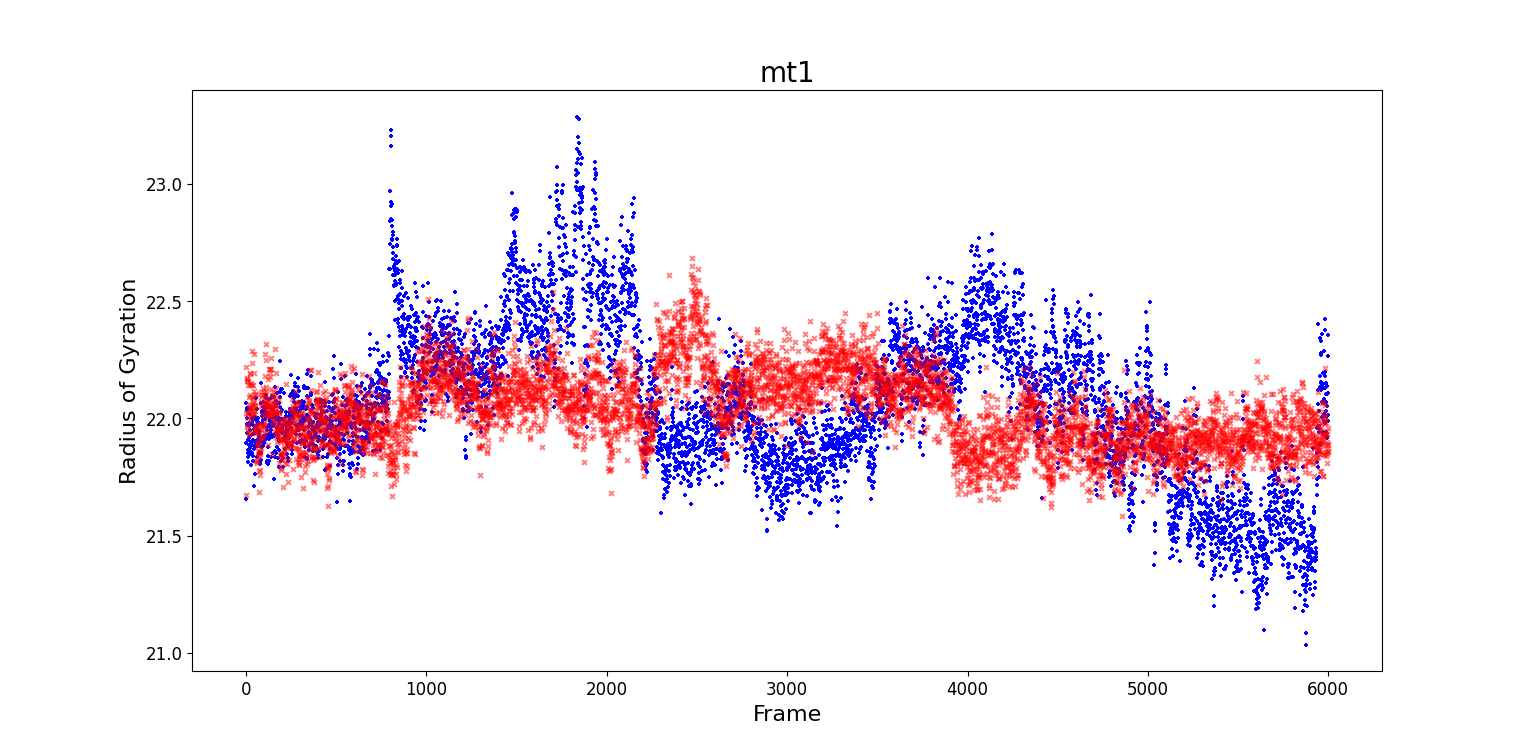
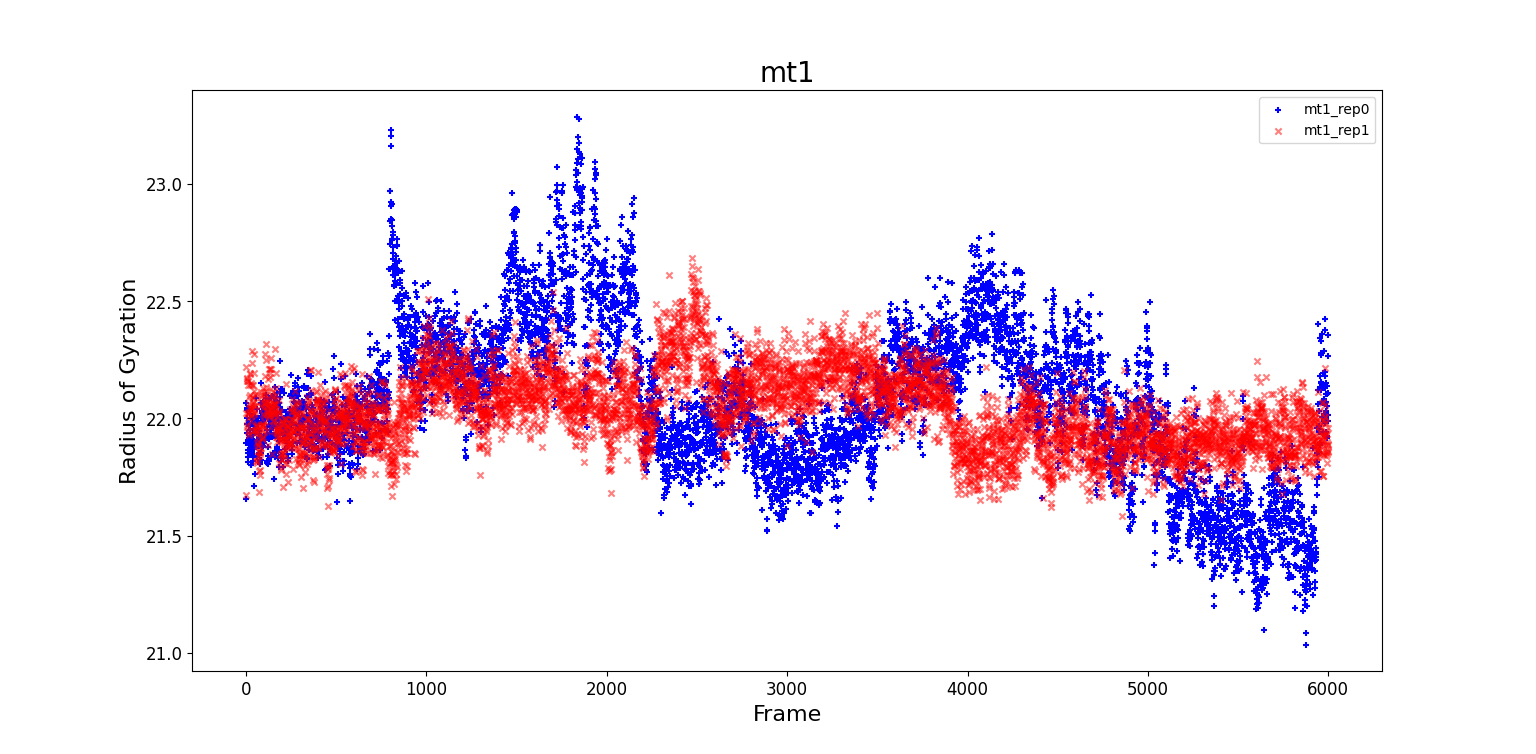
Added RMSF comparisons; added legend to previous plots

Changed region(s): [[0.1562, 0.3355, 0.875, 0.7626], [0.8438, 0.122, 0.9062, 0.183]]

diff --git a/src_analysis/RMSF_visualize.py b/src_analysis/RMSF_visualize.py
@@ -1,43 +1,34 @@
 from parameters import *
 import matplotlib.pyplot as plt
 
-def vis_rmsf(rmsf_dir):
-    rmsf = np.load(rmsf_dir)
-
-    plt.figure()
-
-    plt.plot(rmsf)
-    plt.xlabel("atoms")
-    plt.ylabel("RMSF")
-    plt.show()
-    print(f"Max rmsf for run {run} is {np.argmax(rmsf)}")
-
-def vis_2rmsf(rmsf0, rmsf1, title = ''):
+# //////////////////////////////////////////////////////////////////////////////
+def vis_2rmsf(rmsf0, rmsf1, title = '', label0 = '', label1 = ''):
     print(f">>> Plotting RMSF for '{title}'...")
 
-    frames = np.arange(rmsf0.size)
+    frames = np.arange(max(rmsf0.size, rmsf1.size))
     fig, ax = plt.subplots()
 
+    # ax.set_facecolor((0, 0, 0))
     ax.set_title(title, fontdict = dict(fontsize = 20))
     ax.set_xlabel("CA atom", fontdict = dict(fontsize = 16))
     ax.set_ylabel("RMSF", fontdict = dict(fontsize = 16))
     ax.tick_params(labelsize = 12)
 
     if rmsf0.size != rmsf1.size:
-        return
+        rmsf_half, rmsf_full = sorted([rmsf0, rmsf1], key = lambda arr: arr.size)
+        label_half, label_full = (label0, label1) if rmsf0 is rmsf_half else (label1, label0)
 
-        # arrs = sorted([rmsf0, rmsf1], key=lambda arr:arr.size)
-        # arrs[0] = np.append(arrs[0],arrs[0])
-        # plt.plot(arrs[0])
+        ax.plot(frames, rmsf_full, color = BLUE, linestyle = ':', linewidth = 2, label = label_full)
+        ax.plot(frames[:rmsf_half.size], rmsf_half, color = HALF_RED, linestyle = '-', linewidth = 2, label = label_half)
+        ax.plot(frames[rmsf_half.size:], rmsf_half, color = HALF_GREEN, linestyle = '-', linewidth = 2, label = label_half)
 
     else:
-        ax.plot(frames, rmsf0, color = BLUE, linestyle = ':', linewidth = 2)
-        ax.plot(frames, rmsf1, color = HALF_RED, linestyle = '-', linewidth = 2)
+        ax.plot(frames, rmsf0, color = BLUE, linestyle = ':', linewidth = 2, label = label0)
+        ax.plot(frames, rmsf1, color = HALF_RED, linestyle = '-', linewidth = 2, label = label1)
 
-        # ax.scatter(frames, rmsf0, color = BLUE, marker = '+', s = 12)
-        # ax.scatter(frames, rmsf1, color = HALF_RED, marker = 'x', s = 12)
+    ax.legend()
 
-
+# //////////////////////////////////////////////////////////////////////////////
 if __name__ == "__main__":
     for run_preffix in RUN_PREFFIXES:
         run0 = run_preffix + "_rep0"
@@ -49,6 +40,23 @@ if __name__ == "__main__":
         rmsf0 = np.load(PATH_RMSF0)
         rmsf1 = np.load(PATH_RMSF1)
 
-        vis_2rmsf(rmsf0, rmsf1, title = run_preffix)
+        vis_2rmsf(rmsf0, rmsf1, run_preffix, run0, run1)
+
+    comparisons = [
+        ("mt2_rep0", "wt2_rep0"),
+        ("mt1_rep0", "mt2_rep0"),
+        ("wt1_rep0", "wt2_rep0"),
+    ]
+
+    for run0, run1 in comparisons:
+        PATH_RMSF0 = DIR_DA_GENERAL / f"{run0}-rmsf.npy"
+        PATH_RMSF1 = DIR_DA_GENERAL / f"{run1}-rmsf.npy"
+
+        rmsf0 = np.load(PATH_RMSF0)
+        rmsf1 = np.load(PATH_RMSF1)
+
+        vis_2rmsf(rmsf0, rmsf1, f"{run0} vs {run1}", run0, run1)
 
     plt.show()
+
+# //////////////////////////////////////////////////////////////////////////////

diff --git a/src_analysis/RGYR_visualize.py b/src_analysis/RGYR_visualize.py
@@ -1,7 +1,8 @@
 from parameters import *
 import matplotlib.pyplot as plt
 
-def vis_2rgyr(rgyr0, rgyr1, title = ''):
+# //////////////////////////////////////////////////////////////////////////////
+def vis_2rgyr(rgyr0, rgyr1, title = '', label0 = '', label1 = ''):
     print(f">>> Plotting RGYR for '{title}'...")
 
     frames = np.arange(rgyr0.size)
@@ -12,29 +13,12 @@ def vis_2rgyr(rgyr0, rgyr1, title = ''):
     ax.set_ylabel("Radius of Gyration", fontdict = dict(fontsize = 16))
     ax.tick_params(labelsize = 12)
 
-    ax.scatter(frames, rgyr0, color = BLUE, marker = '+', s = 12)
-    ax.scatter(frames, rgyr1, color = HALF_RED, marker = 'x', s = 12)
+    ax.scatter(frames, rgyr0, color = BLUE, marker = '+', s = 20, label = label0)
+    ax.scatter(frames, rgyr1, color = HALF_RED, marker = 'x', s = 20, label = label1)
 
+    ax.legend()
 
-##### RGYR arrays are always the same size (n = number of frames), so this function from RMSF (x = number of atoms) doesn't apply here
-# def vis_2rgyr(rgyr_dir1,rgyr_dir2):
-#     rgyr1 = np.load(rgyr_dir1)
-#     rgyr2 = np.load(rgyr_dir2)
-#
-#     if rgyr1.size != rgyr2.size:
-#         arrs = sorted([rgyr1, rgyr2], key=lambda arr:arr.size)
-#         arrs[0] = np.append(arrs[0],arrs[0])
-#
-#         plt.plot(arrs[0])
-#         plt.plot(arrs[1])
-#
-#     else:
-#
-#         plt.plot(rgyr1)
-#         plt.plot(rgyr2)
-#
-#     plt.show()
-
+# //////////////////////////////////////////////////////////////////////////////
 if __name__ == "__main__":
     for run_preffix in RUN_PREFFIXES:
         run0 = run_preffix + "_rep0"
@@ -46,6 +30,8 @@ if __name__ == "__main__":
         rgyr0 = np.load(PATH_RGYR0)
         rgyr1 = np.load(PATH_RGYR1)
 
-        vis_2rgyr(rgyr0, rgyr1, title = run_preffix)
+        vis_2rgyr(rgyr0, rgyr1, run_preffix, run0, run1)
 
     plt.show()
+
+# //////////////////////////////////////////////////////////////////////////////

diff --git a/src_analysis/RMSD_visualize.py b/src_analysis/RMSD_visualize.py
@@ -210,8 +210,10 @@ class RMSD_1D_Clustering(RMSD_1D):
 
 # ++++++++++++++++++++++++++++++++++++++++++++++++++++++++++++++++++++++++++++++
 class RMSD_1D_Compare(RMSD_1D):
-    def __init__(self, rmsd_mat_0, rmsd_mat_1, title):
+    def __init__(self, rmsd_mat_0, rmsd_mat_1, title, label0, label1):
         self.rmsd_mat1 = rmsd_mat_1
+        self.label0 = label0
+        self.label1 = label1
         super().__init__(rmsd_mat_0, title)
 
     # --------------------------------------------------------------------------
@@ -220,8 +222,9 @@ class RMSD_1D_Compare(RMSD_1D):
         self.rmsd_arr1 = self.rmsd_mat1[ref_frame]
 
     def init_plot(self):
-        self.line_rmsd0 = self.ax.scatter(self.x, self.rmsd_arr, color = BLUE, marker = '+', s = 12)
-        self.line_rmsd1 = self.ax.scatter(self.x, self.rmsd_arr1, color = HALF_RED, marker = 'x', s = 12)
+        self.line_rmsd0 = self.ax.scatter(self.x, self.rmsd_arr, color = BLUE, marker = '+', s = 12, label = self.label0)
+        self.line_rmsd1 = self.ax.scatter(self.x, self.rmsd_arr1, color = HALF_RED, marker = 'x', s = 12, label = self.label1)
+        self.ax.legend()
 
     def update_line_rmsd(self):
         self.line_rmsd0.set_offsets(
@@ -256,7 +259,7 @@ if __name__ == "__main__":
 
         # rmsds.append(RMSD_2D(rmsd_mat0, title = run0))
         # rmsds.append(RMSD_2D(rmsd_mat1, title = run1))
-        rmsds.append(RMSD_1D_Compare(rmsd_mat0, rmsd_mat1, title = run_preffix))
+        rmsds.append(RMSD_1D_Compare(rmsd_mat0, rmsd_mat1, run_preffix, run0, run1))
 
 
     ############################################################################

diff --git a/src_analysis/gen_sasa_script.py b/src_analysis/gen_sasa_script.py
@@ -1,0 +1,21 @@
+from parameters import *
+
+if __name__ == "__main__":
+    PATH_GRO_MT2_0     = DIR_DA_TRAJECTORIES / f"mt2_rep0.gro"
+    PATH_XTC_MT2_0     = DIR_DA_TRAJECTORIES / f"mt2_rep0.xtc"
+    PATH_TPR_MT2_0     = DIR_DA_TRAJECTORIES / f"mt2_rep0.tpr"
+    PATH_AREA_MT2_0     = DIR_DA_SASA / f"area.xvg"
+    PATH_SFE_MT2_0     = DIR_DA_SASA / f"sfe.xvg"  # solvation free energy as a function of time
+    PATH_OR_MT2_0     = DIR_DA_SASA / f"or.xvg"  # average area per residue
+    PATH_OA_MT2_0     = DIR_DA_SASA / f"oa.xvg"  # average area per atom
+    PATH_TV_MT2_0     = DIR_DA_SASA / f"volume.xvg"  # total volume and density as a function of time
+
+    #gmx sasa -f PATH_XTC_MT2_0 -s PATH_TPR_MT2_0 -o PATH_AREA_MT2_0 -odg PATH_SFE_MT2_0 -or PATH_OR_MT2_0 -oa PATH_OA_MT2_0 -tv PATH_TV_MT2_0 -surface protein
+
+   # gmx sasa -f mt2_rep0.xtc -s mt2_rep0.tpr -o area.xvg -odg sfe.xvg -or or.xvg -oa oa.xvg -tv volume.xvg -surface protein
+
+    PATH_SASA = "sasa.sh"
+
+    command = f"gmx sasa -f {PATH_XTC_MT2_0} -s {PATH_TPR_MT2_0} -o {PATH_AREA_MT2_0} -odg {PATH_SFE_MT2_0} -or  {PATH_OR_MT2_0} -oa {PATH_OA_MT2_0} -tv {PATH_TV_MT2_0} -surface protein"
+
+    with open(PATH_SASA, 'w') as file: file.write(command.replace("\\", "/"))
